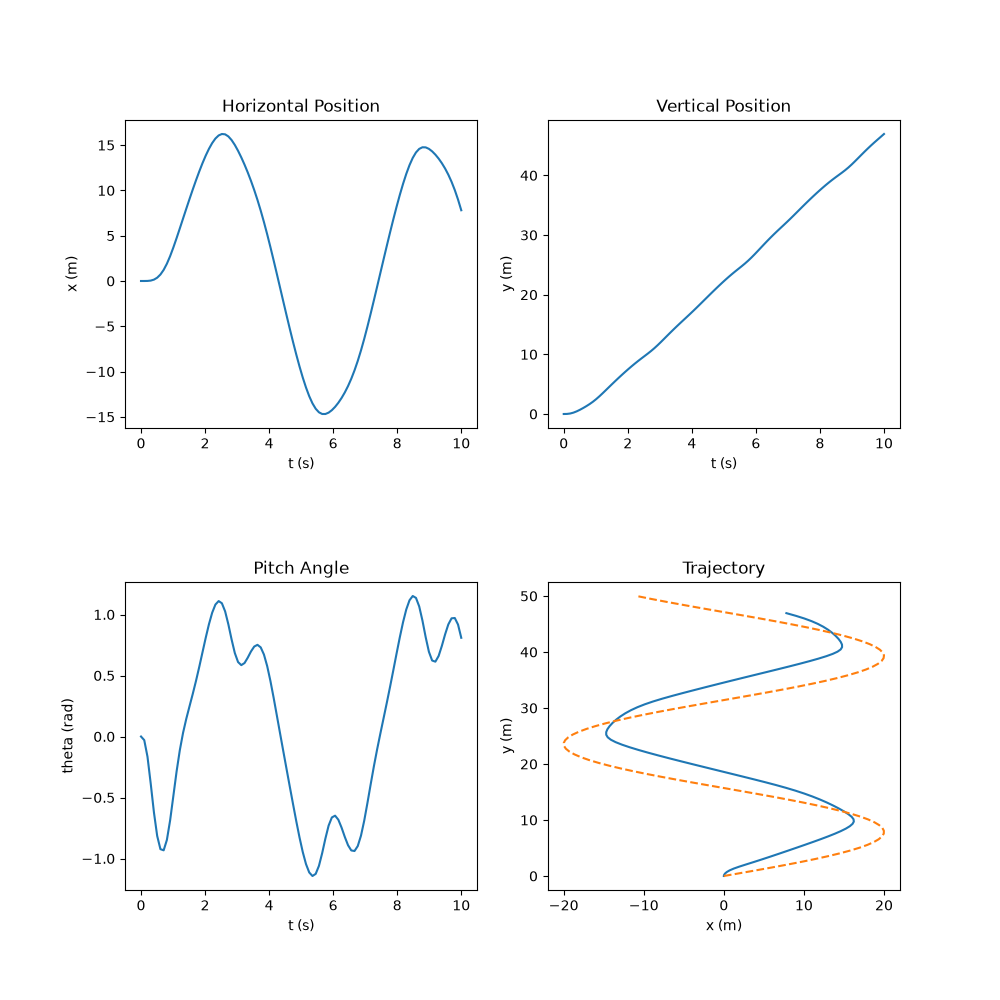
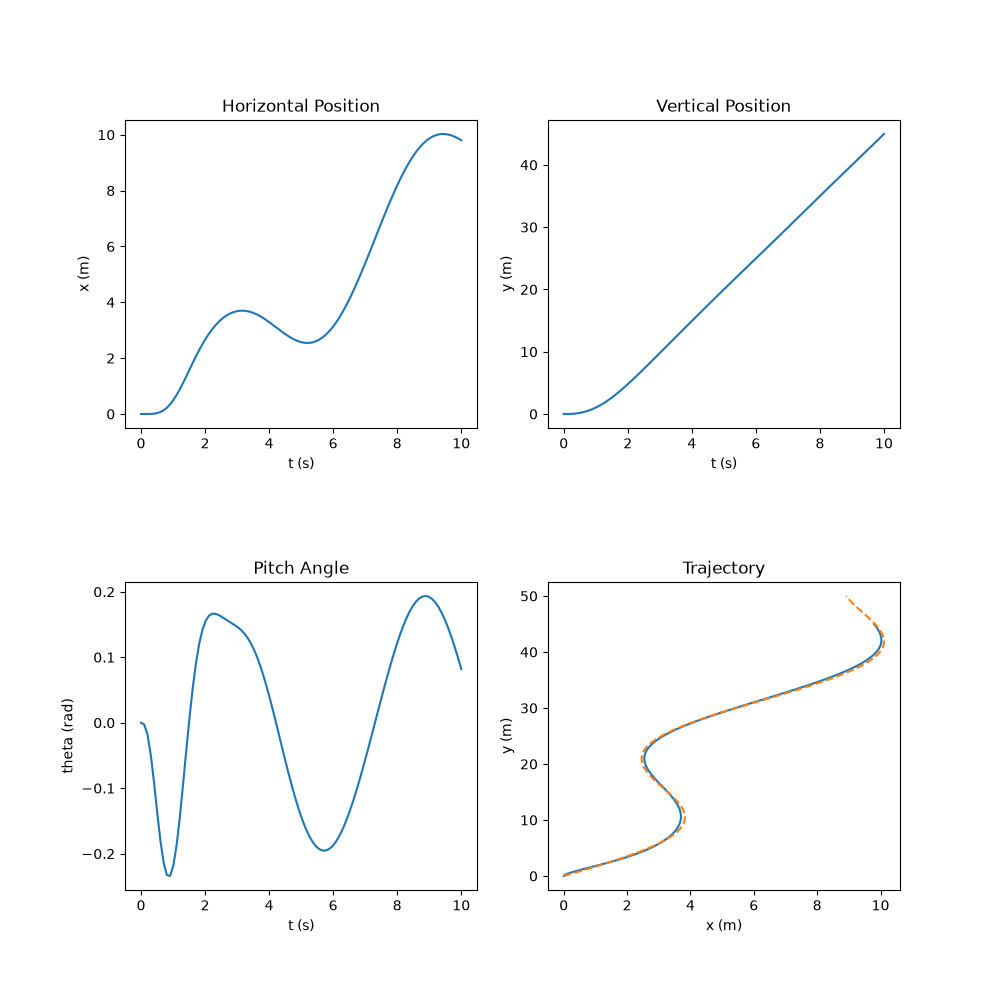
Fix LQR option, add objective options to streamlit UI

diff --git a/drone-2d-streamlit.py b/drone-2d-streamlit.py
@@ -9,6 +9,7 @@ from scipy.integrate import solve_ivp
 import matplotlib.pyplot as plt
 import matplotlib.animation as animation
 import streamlit as st
+from numpy import sin, cos, tan, tanh, pi
 
 import sys
 from pathlib import Path
@@ -50,7 +51,25 @@ with col1:
 
     st.space()
     st.write("### Controller Settings")
-    control_method_selected = st.selectbox("Select Control Method", ["Full State Feedback (FSF) with Pole Placement", "Full State Feedback (FSF) with LQR"])
+    control_method_selected = st.selectbox("Select Control Method", ["Full State Feedback (FSF) with LQR", "Full State Feedback (FSF) with Pole Placement"])
+
+    # Get desired control objective
+    objective = st.selectbox("Select Control Objective", ['Desired Trajectory (x(t), y(t))', 'Desired Point (x,y)'])
+
+    if(objective == 'Desired Point (x,y)'):
+        target_x = st.number_input('x', value=5)
+        target_y = st.number_input('y', value=5)
+        def target_traj(t):
+            return target_x, target_y
+        
+    elif(objective == 'Desired Trajectory (x(t), y(t))'):
+        traj_x = st.text_input('x(t)', value="2 * np.sin(t) + t", placeholder="2 * np.sin(t) + t")
+        traj_y = st.text_input('y(t)', value="5 * t", placeholder="20 * np.sin(t)")
+        st.info('Available special symbols: t, sin, cos, tan, tanh, pi' \
+        '\n\nUse * for multiplication, / for division, ** for power, and parentheses () for grouping.')
+        def target_traj(t):
+            return eval(traj_x), eval(traj_y)
+
 
     # map to accepted control method names (TO-DO: Improve this)
     control_method = "pole_placement" if control_method_selected == "Full State Feedback (FSF) with Pole Placement" else "lqr"
@@ -70,7 +89,7 @@ with col1:
     t = np.linspace(t_start, t_end, 100)
 
     # Instantiate the controller based on the selected control method
-    controller = ControllerFSF(type=control_method)
+    controller = ControllerFSF(type=control_method, target_fn=target_traj)
 
     # solve ODE
     sol = solve_ivp(drone_dynamics, (t_start, t_end), z0, t_eval=t, args=(params, controller), rtol=1e-3, atol=1e-6)
@@ -83,10 +102,10 @@ with col2:
 
     with st.spinner("Wait for it...", show_time=True):
         # plot trajectory
-        ani = plot_trajectory(x, y, theta, t, params)
+        ani = plot_trajectory(x, y, theta, t, params, target_fn=target_traj)
         st.iframe(ani.to_jshtml(), height=600)
 
-        fig = plot_results(t, x, y, theta)
+        fig = plot_results(t, x, y, theta, target_fn=target_traj)
         st.pyplot(fig)
     
 

diff --git a/src/controllers/controller.py b/src/controllers/controller.py
@@ -8,7 +8,7 @@ import numpy as np
 
 
 def target_traj(t):
-    return 20 * np.sin(t), 5 * t
+    return np.sin(t) + t, 2 * t
 
 class Controller(ABC):
     @abstractmethod
@@ -26,8 +26,9 @@ class Controller(ABC):
 class ControllerFSF(Controller):
     """Full State Feedback Controller for the 2D-Drone."""
 
-    def __init__(self, type='lqr', gain_matrix=None):
+    def __init__(self, type='lqr', target_fn=target_traj, gain_matrix=None):
         self.type = type
+        self.target_fn = target_fn
 
         if gain_matrix is not None:
             # If a specific gain matrix is provided, use it
@@ -35,7 +36,7 @@ class ControllerFSF(Controller):
         elif type == 'lqr':
             print('LQR FSF')
             # If LQR, use the designed LQR gain matrix
-            self.K = np.load('src/controller_design/K_fsf_pp.npy') 
+            self.K = np.load('src/controller_design/K_fsf_lqr.npy') 
         elif type == 'pole_placement':
             print('Pole Placement FSF')
             # If Pole Placement, use the designed Pole Placement gain matrix
@@ -46,7 +47,7 @@ class ControllerFSF(Controller):
     def law(self, t, z, params):
         m, g = params["m"], params["g"]
 
-        x_ref, y_ref = target_traj(t)
+        x_ref, y_ref = self.target_fn(t)
 
         # equilibrium conditions
         u_eq = np.array([m * g / 2, m * g / 2])

diff --git a/src/plots.py b/src/plots.py
@@ -2,10 +2,9 @@ import numpy as np
 import matplotlib.pyplot as plt
 import matplotlib.animation as animation
 
-from controllers.controller import target_traj
 
 # plot results
-def plot_results(t, x, y, theta):
+def plot_results(t, x, y, theta, target_fn):
     fig, axs = plt.subplots(2, 2, figsize=(10, 10))
     plt.subplots_adjust(hspace=0.5)
 
@@ -29,7 +28,7 @@ def plot_results(t, x, y, theta):
     axs[1, 1].set_xlabel("x (m)")
     axs[1, 1].set_ylabel("y (m)")
 
-    traj_x, traj_y = target_traj(t)
+    traj_x, traj_y = target_fn(t)
     axs[1, 1].plot(traj_x, traj_y, linestyle='--')
 
 
@@ -39,7 +38,7 @@ def plot_results(t, x, y, theta):
     return fig
 
 # Plot trajectory (animated)
-def plot_trajectory(x, y, theta, t, params):
+def plot_trajectory(x, y, theta, t, params, target_fn):
 
     t_end = t[-1]
     
@@ -51,7 +50,7 @@ def plot_trajectory(x, y, theta, t, params):
     traj_plot, = ax.plot(x, y)
     patch = ax.add_patch(plt.Rectangle((x[0] - L/2, y[0]-0.1), L, 0.2, angle=theta[0]*(180/np.pi), color='r'))
 
-    traj_x, traj_y = target_traj(t)
+    traj_x, traj_y = target_fn(t)
     ax.plot(traj_x, traj_y, linestyle='--')
 
     plt.xlabel("x (m)")
